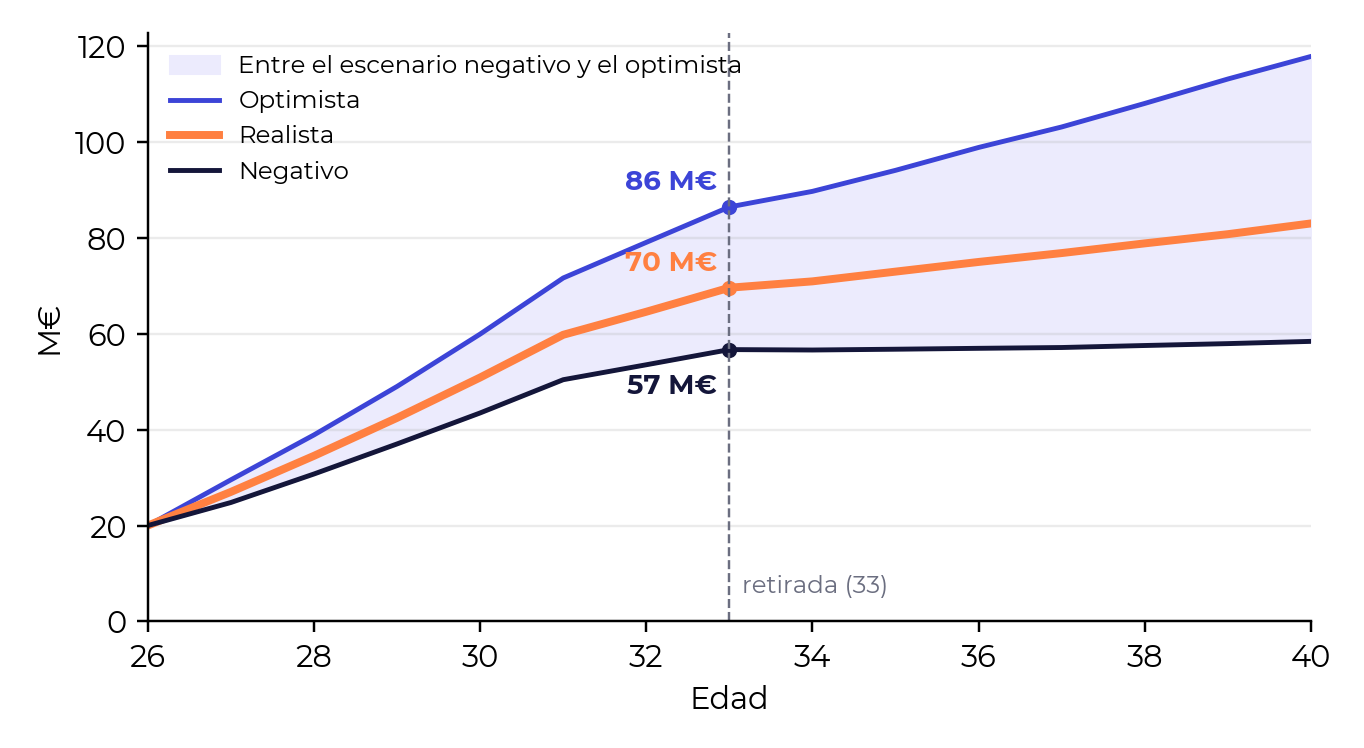
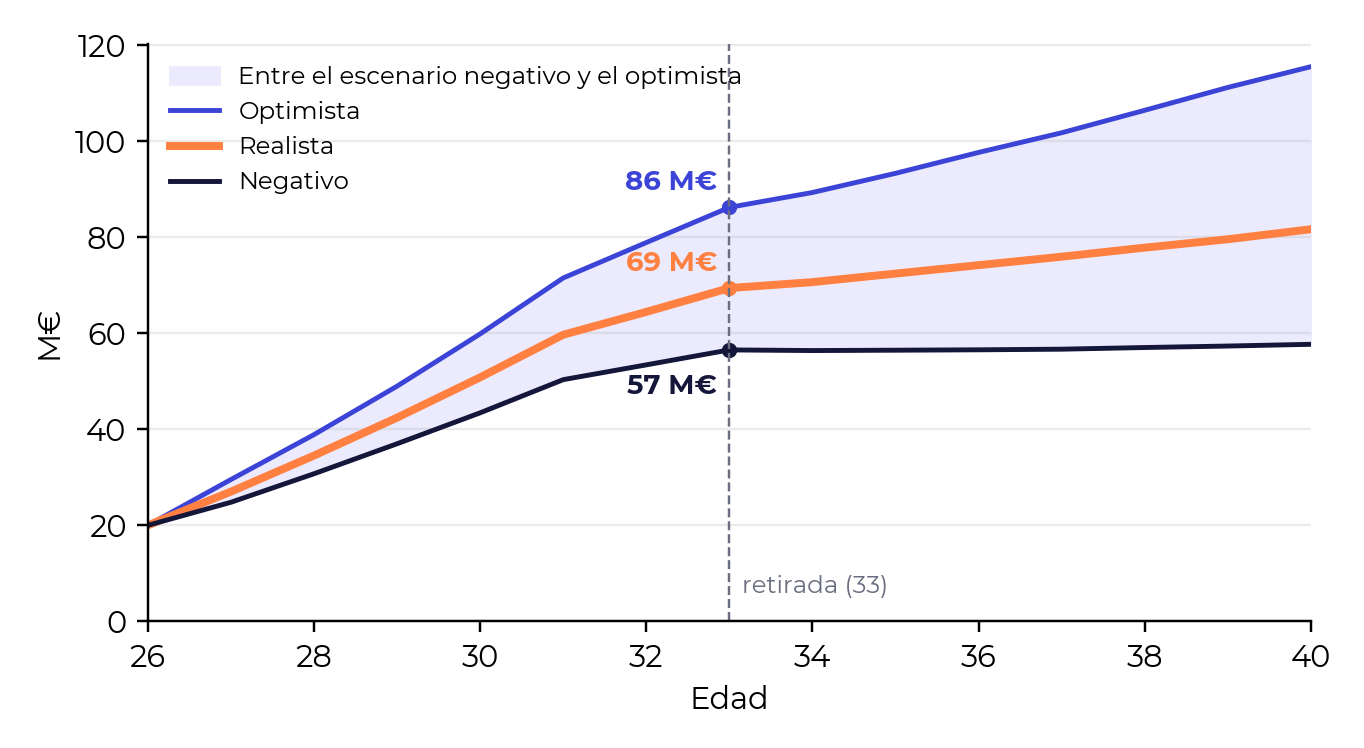
v2: agencia de 3,5 M€ y coste del 0,9 % como en la versión 1; composición del patrimonio
Claude-Session: https://claude.ai/code/session_0111o8iYWzQLY57nH6dR9ZPS

diff --git a/v2/portada_v2.py b/v2/portada_v2.py
@@ -1,0 +1,36 @@
+"""Gráfico de la portada: patrimonio previsto de los 26 a los 33 años en tres escenarios (fondo azul)."""
+from pathlib import Path
+import numpy as np
+import matplotlib
+matplotlib.use("Agg")
+import matplotlib.pyplot as plt
+from matplotlib import font_manager as fm
+import modelo_v2 as M
+
+for f in Path("/root/.fonts").glob("Montserrat*.ttf"):
+    fm.fontManager.addfont(str(f))
+plt.rcParams.update({"font.family": "Montserrat"})
+E = list(M.EDADES)
+t = M.simular(1.1, n=20000, regla_flexible=True)
+js = [E.index(a) for a in range(26, 33)]
+p10, p50, p90 = (np.concatenate([[20.0], np.percentile(t["W"][:, js], q, axis=0)]) for q in (10, 50, 90))
+x = np.arange(26, 34)
+W_, L_, O_ = "#FFFFFF", "#DDDEFA", "#FF8041"
+fig, ax = plt.subplots(figsize=(3.6, 3.3), dpi=300)
+fig.patch.set_alpha(0); ax.patch.set_alpha(0)
+ax.fill_between(x, p10, p90, color="#FFFFFF", alpha=0.16, lw=0)
+ax.plot(x, p90, color=L_, lw=1.4); ax.plot(x, p10, color=L_, lw=1.4)
+ax.plot(x, p50, color=O_, lw=3)
+for y, lab, c, dy in ((p90[-1], "Optimista", L_, 4), (p50[-1], "Realista", O_, 0), (p10[-1], "Negativo", L_, -4)):
+    ax.text(33.25, y + dy * 0.6, f"{y:.0f} M€".replace(".", ","), color=c, fontsize=10, fontweight="bold", va="center")
+    ax.text(33.25, y + dy * 0.6 - 4.2, lab, color=c, fontsize=6.5, va="center")
+ax.text(26.05, 34, "20 M€ hoy", color=W_, fontsize=8, fontweight="bold", va="bottom")
+ax.set_xlim(26, 35.3); ax.set_ylim(0, 95)
+ax.set_xticks(range(26, 34)); ax.tick_params(colors=L_, labelsize=7, length=0)
+for s in ("top", "right", "left"): ax.spines[s].set_visible(False)
+ax.spines["bottom"].set_color(L_); ax.set_yticks([])
+ax.set_xlabel("Edad", color=L_, fontsize=7)
+ax.set_title("Patrimonio previsto, M€", color=W_, fontsize=10, fontweight="bold", loc="left")
+fig.tight_layout(pad=0.3)
+fig.savefig(Path(__file__).parent / "resultados" / "g0_portada.png", transparent=True)
+print([round(v, 1) for v in (p10[-1], p50[-1], p90[-1])])

diff --git a/v2/resultados_v2.py b/v2/resultados_v2.py
@@ -49,6 +49,8 @@ for k, w in M.CARTERAS.items():
 re_share = np.median((t["P"] + 0.15 * t["F"]) / W, axis=0)
 R["peso_inmuebles"] = {a: float(re_share[E.index(a)]) for a in range(26, 41)}
 R["pisos_mediana"] = {a: float(np.median(t["P"][:, E.index(a)])) for a in (32, 33)}
+R["composicion"] = {a: {k: float(np.median(t[k][:, E.index(a)] / W[:, E.index(a)])) for k in ("P", "F", "C", "A")} for a in (26, 33, 35)}
+R["composicion_M"] = {a: {k: float(np.median(t[k][:, E.index(a)])) for k in ("P", "F", "C", "A", "W")} for a in (26, 33, 35)}
 json.dump(R, open(OUT / "cifras_v2.json", "w"), indent=1, ensure_ascii=False, default=float)
 print(json.dumps({k: v for k, v in R.items() if k not in ("carteras", "peso_inmuebles")}, indent=1, default=float, ensure_ascii=False))
 
@@ -154,8 +156,8 @@ ax.bar(anios, [3] * 5, color=ORANGE, width=.6, label="Colchón (3 M€)")
 ax.bar(anios, aseg, bottom=3, color=LIL2, width=.6, label="Seguro de fin de carrera")
 for i, v_ in enumerate(aseg):
     ax.text(i, v_ + 3.6, fmt(v_), ha="center", fontsize=8.5, fontweight="bold", color=NAVY)
-ax.set_yticks([]); ax.spines["left"].set_visible(False); ax.legend(frameon=False, fontsize=8)
-ax.set_title("Protección si una lesión le retira, M€", fontsize=8.5, loc="left", color=GREY)
+ax.set_yticks([]); ax.spines["left"].set_visible(False)
+ax.legend(frameon=False, fontsize=8, ncol=2, loc="upper center", bbox_to_anchor=(0.5, -0.12))
 fig.tight_layout(); fig.savefig(OUT / "g7_seguro.png", transparent=True); plt.close(fig)
 
 json.dump(R, open(OUT / "cifras_v2.json", "w"), indent=1, ensure_ascii=False, default=float)

diff --git a/v2/modelo_v2.py b/v2/modelo_v2.py
@@ -17,7 +17,8 @@ Estructura del plan:
       Carrera (26-30), Puente (31-39) y Rentas (40 en adelante).
   * Pisos: no se compran más mientras sea no residente; al volver a España (33) se compran
     los necesarios para que los inmuebles (pisos + inmobiliario cotizado) sean el 40 % del patrimonio.
-  * Agencia: 1 M€ a los 33 y 1 M€ a los 36, a rentabilidad 0 %.
+  * Agencia: hasta 3,5 M€ (como en la versión 1), invertidos en la cartera hasta que se usan por fases:
+    1,5 M€ a los 33 (licencia FIFA y equipo), 1 M€ a los 34 y 1 M€ a los 35 (primeros representados), a rentabilidad 0 %.
 """
 import numpy as np
 import ltcma_v2 as L
@@ -59,8 +60,8 @@ SUPUESTOS = dict(
     pisos0=14.0, liquido0=6.0, colchon=3.0,
     rent_bruta_pisos=0.05, gastos_pisos=0.25, irnr=0.19, irpf_alquiler=0.22,
     revalorizacion_pisos=0.025, vol_pisos=0.08, coste_compra_pisos=0.07,
-    coste_cartera=0.008, impuesto_rescate=0.28, prima_seguro=0.0125,
-    objetivo_inmuebles=0.40, agencia=((33, 1.0), (36, 1.0)),
+    coste_cartera=0.009, impuesto_rescate=0.28, prima_seguro=0.0125,
+    objetivo_inmuebles=0.40, agencia=((33, 1.5), (34, 1.0), (35, 1.0)),
     rent_colchon=0.022, haircut_venta_pisos=0.10, indexar_itsgf=True,
 )
 

diff --git a/v2/README.md b/v2/README.md
@@ -29,11 +29,11 @@ python resultados_v2.py      # unos 3 minutos
 
 | | Cifra |
 |---|---|
-| Patrimonio a los 33 (negativo / realista / optimista) | 57 / 70 / 86 M€ |
-| Gasto de por vida que llega a los 95 en 9 de cada 10 escenarios | 1,13 M€ al año de hoy |
-| Con su gasto actual (1,5 M€) | llega en 59 de cada 100 |
-| Frente a la cartera de la v1 / una 60/40 | +73.000 € / +90.000 € de gasto seguro al año |
-| Lesión a los 28, con y sin colchón y seguro | 0,89 M€ frente a 0,64 M€ al año |
+| Patrimonio a los 33 (negativo / realista / optimista) | 57 / 69 / 86 M€ |
+| Gasto de por vida que llega a los 95 en 9 de cada 10 escenarios | 1,09 M€ al año de hoy (1,1 M€ llega en el 89 %) |
+| Con su gasto actual (1,5 M€) | llega en 54 de cada 100 |
+| Frente a la cartera de la v1 / una 60/40 | +70.000 € / +85.000 € de gasto seguro al año |
+| Lesión a los 28, con y sin colchón y seguro | 0,85 M€ frente a 0,61 M€ al año |
 
 | Cartera | Rentabilidad esperada | Volatilidad | Peor año (1 de cada 20) |
 |---|---:|---:|---:|
@@ -46,7 +46,8 @@ python resultados_v2.py      # unos 3 minutos
 - Neto en Francia calibrado con el caso anterior: 10,6 % de cotizaciones y 32,5 % de impuesto sobre el bruto con el régimen 155 B.
 - Pisos: 5 % de rentabilidad bruta, 25 % de gastos, 19 % de impuesto como no residente (22 % como residente), 2,5 % de revalorización con volatilidad del 8 %.
 - Impuesto de Solidaridad: escala estatal con tramos actualizados con la inflación. Como no residente, sobre los pisos sin límite conjunto. Como residente en España, sobre todo el patrimonio con el límite conjunto (mínimo del 20 % de la cuota).
-- Costes de la cartera: 0,8 % al año. Rescates: 28 % sobre la parte de ganancia.
+- Costes de la cartera: 0,9 % al año (fondos 0,22 %, contrato y depositario 0,4 %, asesoramiento 0,3 %), como en la v1. Rescates: 28 % sobre la parte de ganancia.
+- Agencia: hasta 3,5 M€, como en la v1: 1,5 M€ a los 33 y 1 M€ a los 34 y a los 35, a rentabilidad cero.
 - Regla de gasto: si el patrimonio real cae por debajo del 80 % del que tenía al retirarse, ese año gasta un 15 % menos.
 - Seguro: 27 M€ el primer año, decreciente hasta 2031, prima del 1,25 % (rango de mercado 0,5-2 %).
 
